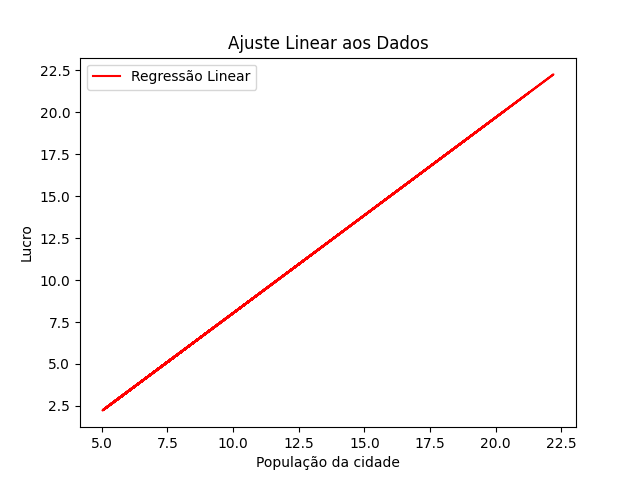
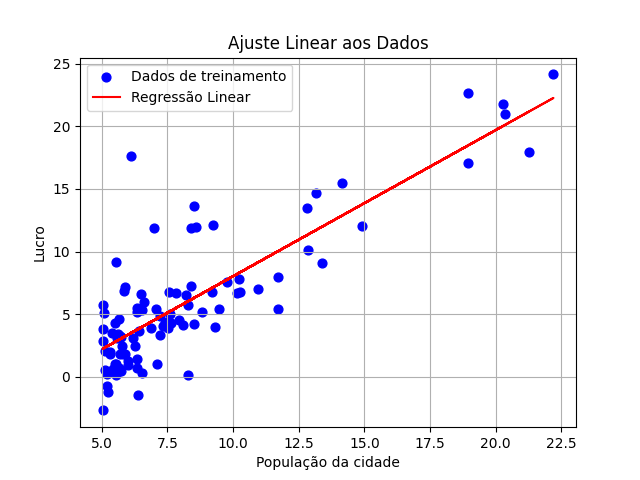
feat: correcao regressao-linear-ex1.py

diff --git a/regressao-linear-ex1.py b/regressao-linear-ex1.py
@@ -22,21 +22,23 @@ file_path = os.path.join(current_dir, 'Data', 'ex1data1.txt')
 
 print(f"🔹 Carregando dados de treinamento de {file_path}...")
 data = np.loadtxt(file_path, delimiter=',')
-X = data[:, 0]
+X_original = data[:, 0]   # Salva X original
 y = data[:, 1]
-m = len(y)  # número de exemplos de treinamento
+m = len(y)
 
 # 4. Visualizar os dados
 plt.figure()
-plot_data(X, y)
-plt.title('Dados de treinamento')
+plot_data(X_original, y, color='blue', marker='o', label='Dados de treinamento')
+plt.title('Dados de Treinamento')
 plt.xlabel('População da cidade')
 plt.ylabel('Lucro')
+plt.legend()
+plt.grid(True)
 plt.savefig('Figures/dados_treinamento.png')
 plt.close()
 
-# 5. Preparar os dados
-X = X.reshape((m, 1))
+# 5. Preparar os dados para treinamento
+X = X_original.reshape((m, 1))
 X = np.concatenate([np.ones((m, 1)), X], axis=1)  # Adiciona coluna de 1's
 theta = np.zeros(2)  # Inicializa theta
 
@@ -55,22 +57,22 @@ print("\n==============================\n")
 
 # 9. Plotar a linha de regressão
 plt.figure()
-plot_data(X[:, 1], y)  # <- Repare que agora é X[:, 1] (e não X direto!)
-plt.plot(X[:, 1], np.dot(X, theta), color='red', label='Regressão Linear')
+plot_data(X_original, y, color='blue', marker='o', label='Dados de treinamento')
+plt.plot(X_original, np.dot(X, theta), color='red', label='Regressão Linear')
 plt.title('Ajuste Linear aos Dados')
 plt.xlabel('População da cidade')
 plt.ylabel('Lucro')
 plt.legend()
+plt.grid(True)
 plt.savefig('Figures/ajuste_regressao.png')
 plt.close()
 
 # 10. Plotar o custo vs. iterações
 plt.figure()
-plt.plot(range(1, iterations + 1), J_history, color='blue')
-plt.title('Convergência do custo')
+plt.plot(range(1, iterations + 1), J_history, color='purple')
+plt.title('Convergência do Custo')
 plt.xlabel('Número de Iterações')
 plt.ylabel('Custo J(θ)')
 plt.grid(True)
 plt.savefig('Figures/convergencia_custo.png')
 plt.close()
-
